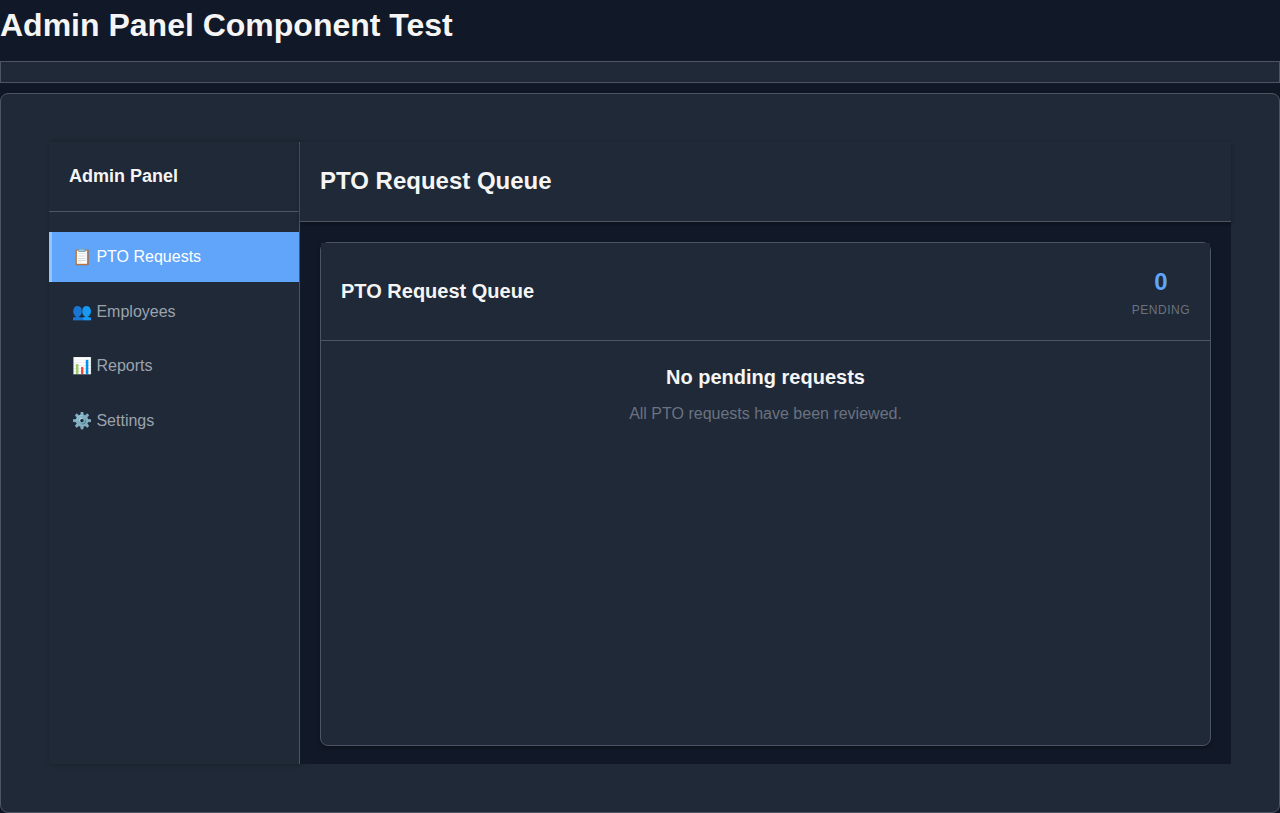
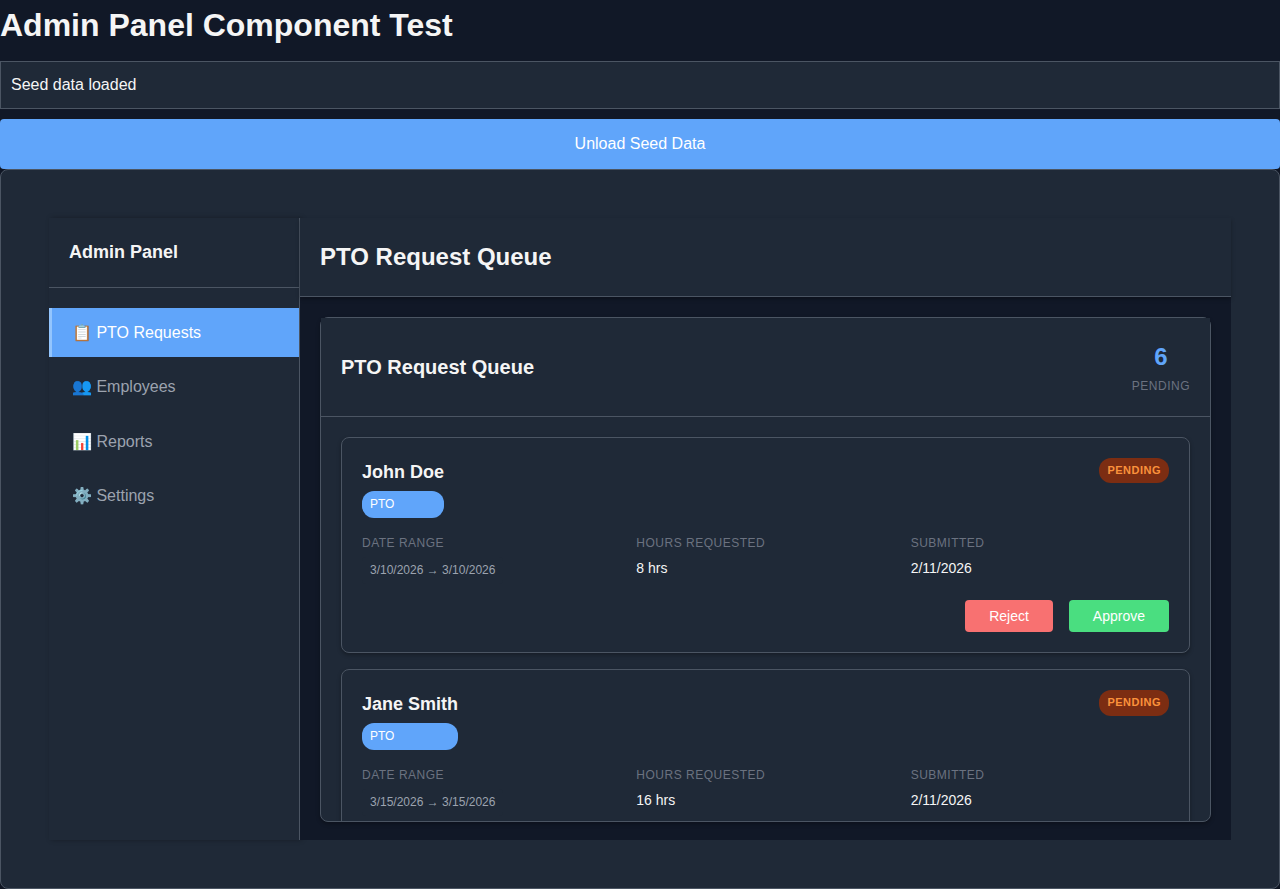
feat: update employee admin panel tests to use button click for adding employees and adjust PTO workflow tests for consistency

diff --git a/e2e/employee-admin-add.spec.ts b/e2e/employee-admin-add.spec.ts
@@ -32,12 +32,8 @@ test.describe("Employee Admin Panel - Add Employee", () => {
     const employeeList = page.locator("admin-panel employee-list");
     await expect(employeeList).toBeVisible();
 
-    // Manually trigger the add-employee event to show the form
-    await employeeList.evaluate((el: any) => {
-      el.dispatchEvent(
-        new CustomEvent("add-employee", { bubbles: true, composed: true }),
-      );
-    });
+    // Click the Add Employee button
+    await page.locator("admin-panel .add-employee-btn").click();
 
     // Wait for employee form to appear
     await page.waitForSelector("admin-panel employee-form");
@@ -73,7 +69,7 @@ test.describe("Employee Admin Panel - Add Employee", () => {
       el._editingEmployee = emp;
       el._showEmployeeForm = true;
       el.render();
-      el.setupChildEventListeners();
+      el.setupEventDelegation();
     }, employeeData);
 
     // Wait for employee form to appear
@@ -147,13 +143,8 @@ test.describe("Employee Admin Panel - Add Employee", () => {
     // Wait for employees view to load
     await page.waitForSelector("admin-panel employee-list");
 
-    // Manually trigger the add-employee event to show the form
-    const employeeList = page.locator("admin-panel employee-list");
-    await employeeList.evaluate((el: any) => {
-      el.dispatchEvent(
-        new CustomEvent("add-employee", { bubbles: true, composed: true }),
-      );
-    });
+    // Click the Add Employee button
+    await page.locator("admin-panel .add-employee-btn").click();
 
     // Wait for employee form to appear
     await page.waitForSelector("admin-panel employee-form");

diff --git a/e2e/pto-balance-validation.spec.ts b/e2e/pto-balance-validation.spec.ts
@@ -86,8 +86,16 @@ test.describe("PTO Balance Validation", () => {
 
     await page.goto("/");
 
-    // Login as John Doe
-    await page.fill("#identifier", "john.doe@gmail.com");
+    // Reload database to ensure clean state
+    await page.request.post("/api/test/reload-database", {
+      headers: { "x-test-reload": "true" },
+    });
+
+    // Wait a moment for database reload to complete
+    await page.waitForTimeout(1000);
+
+    // Login as Jane Smith (has sufficient PTO balance)
+    await page.fill("#identifier", "jane.smith@example.com");
     await page.click('#login-form button[type="submit"]');
 
     await page.waitForSelector("#login-message a", { timeout: 10000 });
@@ -107,7 +115,7 @@ test.describe("PTO Balance Validation", () => {
     const form = page.locator("pto-entry-form");
     await expect(form).toBeVisible();
 
-    // Fill form with 8 hours PTO (within John's 12 hour balance)
+    // Fill form with 8 hours PTO (within Jane's available balance)
     const startDate = form.locator("#start-date");
     const endDate = form.locator("#end-date");
     const ptoType = form.locator("#pto-type");
@@ -121,8 +129,8 @@ test.describe("PTO Balance Validation", () => {
     await hours.fill("8");
     await hours.blur();
 
-    // Wait for form to auto-calculate hours
-    await page.waitForTimeout(100);
+    // Wait for form to auto-calculate hours and validation
+    await page.waitForTimeout(1000);
 
     // Verify no validation errors
     const hoursError = form.locator("#hours-error");

diff --git a/e2e/pto-entry-form-app.spec.ts b/e2e/pto-entry-form-app.spec.ts
@@ -86,9 +86,17 @@ test("index PTO form submission persists entry", async ({ page }) => {
 test("index PTO calendar submission persists entry", async ({ page }) => {
   test.setTimeout(15000);
 
-  const testDateStr = "2026-04-02";
+  const testDateStr = "2026-02-10";
 
   await page.goto("/");
+
+  // Reload database to ensure clean state
+  await page.request.post("/api/test/reload-database", {
+    headers: { "x-test-reload": "true" },
+  });
+
+  // Wait a moment for database reload to complete
+  await page.waitForTimeout(1000);
 
   await page.fill("#identifier", "jane.smith@example.com");
   await page.click('#login-form button[type="submit"]');
@@ -101,6 +109,9 @@ test("index PTO calendar submission persists entry", async ({ page }) => {
   await page.waitForSelector("#dashboard", { timeout: 10000 });
   await expect(page.locator("#pto-status")).toBeVisible();
 
+  // Wait for PTO status to load
+  await page.waitForTimeout(2000);
+
   await page.click("#new-pto-btn");
   await expect(page.locator("#main-content > #pto-form")).not.toHaveClass(
     /hidden/,
@@ -108,6 +119,11 @@ test("index PTO calendar submission persists entry", async ({ page }) => {
 
   const form = page.locator("pto-entry-form");
   await expect(form).toBeVisible();
+
+  // Set sufficient PTO balance for the test
+  await form.evaluate((el: any) => {
+    el.setAttribute("available-pto-balance", "100");
+  });
 
   // Set start date to ensure calendar initializes to correct month
   const startDate = form.locator("#start-date");

diff --git a/e2e/employee-workflow.spec.ts b/e2e/employee-workflow.spec.ts
@@ -41,7 +41,7 @@ test.describe("Employee Authentication & Workflow", () => {
     });
 
     // Use a fixed weekday date that won't conflict with seed data
-    const testDateStr = "2026-03-12"; // Thursday
+    const testDateStr = "2026-02-10"; // Monday, past date
 
     // Navigate to the actual application
     await page.goto("/");
@@ -86,7 +86,7 @@ test.describe("Employee Authentication & Workflow", () => {
       ),
       page.evaluate((dateStr) => {
         const accrualCard = document.querySelector("pto-accrual-card");
-        const requests = [{ date: dateStr, type: "PTO", hours: 4 }];
+        const requests = [{ date: dateStr, type: "Sick", hours: 4 }];
         accrualCard?.dispatchEvent(
           new CustomEvent("pto-request-submit", {
             detail: { requests },
@@ -113,7 +113,7 @@ test.describe("Employee Authentication & Workflow", () => {
     expect(ptoRequest).toBeDefined();
     expect(ptoRequest.employeeId).toBeDefined();
     expect(ptoRequest.date).toBe(testDateStr); // Date stored as YYYY-MM-DD string
-    expect(ptoRequest.type).toBe("PTO");
+    expect(ptoRequest.type).toBe("Sick");
     expect(ptoRequest.hours).toBe(4);
 
     // Verify success notification appears

diff --git a/e2e/component-employee-list.spec.ts b/e2e/component-employee-list.spec.ts
@@ -33,9 +33,6 @@ test("employee-list component test", async ({ page }) => {
   const searchInput = employeeList.locator(".search-input");
   await expect(searchInput).toBeVisible();
 
-  const addButton = employeeList.locator("#add-employee");
-  await expect(addButton).toBeVisible();
-
   // Check initial state (should show sample data from test.ts)
   const employeeCards = employeeList.locator(".employee-card");
   const initialCount = await employeeCards.count();
